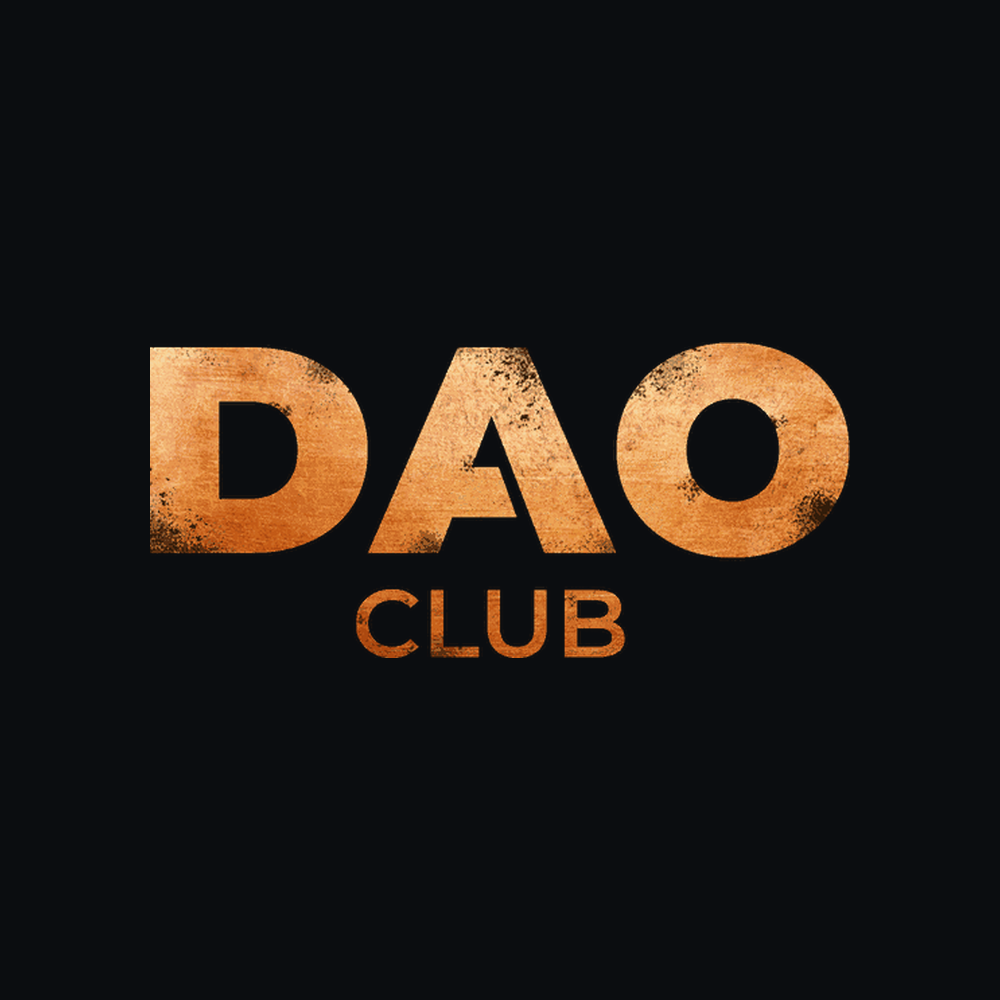
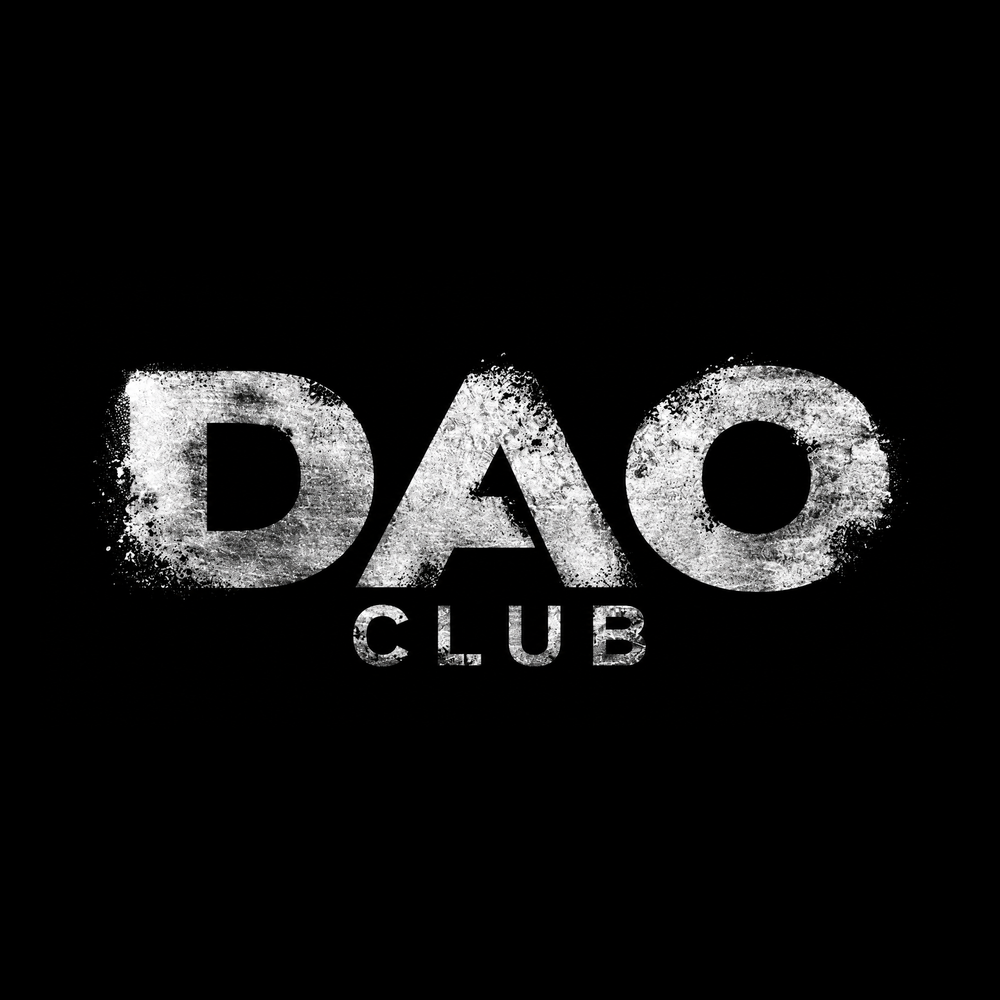
club: новый логотип, баннер на странице решения, ссылки на daotut/club

Changed region(s): [[0.093, 0.341, 0.899, 0.682]]

diff --git a/resheniya/daoreverse.md b/resheniya/daoreverse.md
@@ -1,3 +1,5 @@
+<p align="center"><a href="https://github.com/daotut/club"><img src="../assets/banner-dao.png" alt="DAO CLUB" width="100%"></a></p>
+
 # Как разобрать чужую механику без исходников: REA, лёгкая альтернатива и наш `daoreverse`
 
 > Готовое решение библиотеки DAO CLUB. Задача: понять, как устроено у конкурента — сайт, воронка,
@@ -89,7 +91,7 @@
 
 Скилл открыт: [`skills/daoreverse`](../skills/daoreverse). Скажите своему ИИ-агенту:
 
-> Поставь скилл `daoreverse` из https://github.com/daotut/open/tree/main/skills/daoreverse — сначала покажи, что встанет и куда, и ставь после моего «да».
+> Поставь скилл `daoreverse` из https://github.com/daotut/club/tree/main/skills/daoreverse — сначала покажи, что встанет и куда, и ставь после моего «да».
 
 Дальше просто: «разбери, как устроено вот это» — и ссылка.
 

diff --git a/README.md b/README.md
@@ -29,13 +29,13 @@
 
 Скажите своему ИИ-агенту:
 
-> Поставь скилл `daoreverse` из https://github.com/daotut/open/tree/main/skills/daoreverse — сначала покажи, что встанет и куда, и ставь после моего «да».
+> Поставь скилл `daoreverse` из https://github.com/daotut/club/tree/main/skills/daoreverse — сначала покажи, что встанет и куда, и ставь после моего «да».
 
 Или вручную:
 
 ```bash
-git clone https://github.com/daotut/open.git
-cp -R open/skills/daoreverse ~/.claude/skills/
+git clone https://github.com/daotut/club.git
+cp -R club/skills/daoreverse ~/.claude/skills/
 ```
 
 Дальше просто: «разбери, как устроено вот это» — и ссылка.

diff --git a/skills/daoreverse/SKILL.md b/skills/daoreverse/SKILL.md
@@ -13,7 +13,7 @@ requires: [python3, playwright, jq]
 
 ## Установка — один раз
 
-1. Скопировать папку `daoreverse` в `.claude/skills/` своей системы. Источник — https://github.com/daotut/open/tree/main/skills/daoreverse
+1. Скопировать папку `daoreverse` в `.claude/skills/` своей системы. Источник — https://github.com/daotut/club/tree/main/skills/daoreverse
 2. Поставить браузер для разбора сайтов:
    ```bash
    python3 -m pip install --user playwright && python3 -m playwright install chromium

diff --git a/CHANGELOG.md b/CHANGELOG.md
@@ -3,6 +3,7 @@
 ## 2026-11-05
 - Скилл `daoreverse` открыт: `skills/daoreverse` (раньше — только в закрытой части клуба).
 - Оформление: баннер, ссылки клуба, инструкция установки.
+- Репозиторий переименован `open` → `club`, новый логотип, баннер на странице решения.
 
 ## 2026-11-03
 - `daoreverse` v1.0 — разбор чужой механики (сайты: web-trace на Playwright; программы: роутер на основе leanrea, MIT).
